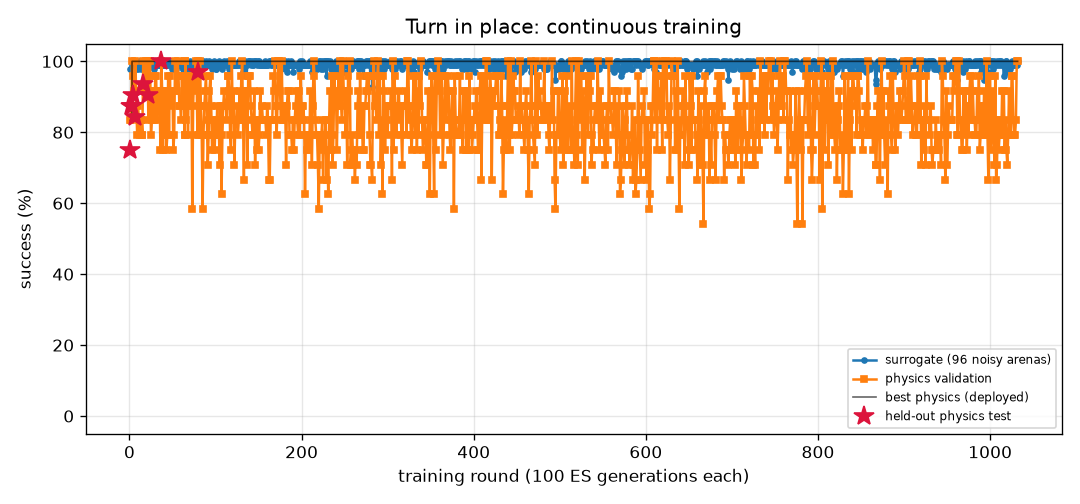
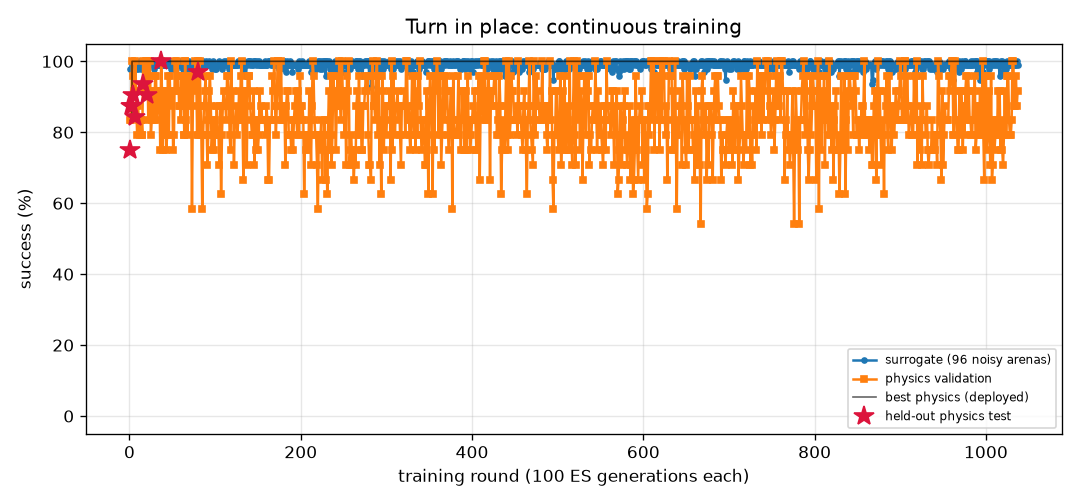
FlyLab: continuous training progress
- walk_forward: optimal, physics val 100% of 24, round 382
- turn: optimal, physics val 100% of 24, round 1037
- goto: optimal, physics val 100% of 24, round 297
- odor_seek: optimal, physics val 100% of 24, round 239
- odor_avoid: optimal, physics val 100% of 24, round 915
- light_seek: optimal, physics val 100% of 24, round 496
- light_avoid: optimal, physics val 100% of 24, round 639

diff --git a/projects/09_flylab/training/turn/REPORT.md b/projects/09_flylab/training/turn/REPORT.md
@@ -1,14 +1,14 @@
 # Turn in place (`turn`) — training report
 
-*Auto-generated by `train_brains.py`, last updated 2026-11-13T20:39:49.*
+*Auto-generated by `train_brains.py`, last updated 2026-11-13T23:34:25.*
 
 ![curve](curve.png)
 
 | | |
 |---|---|
-| rounds | 1032 |
-| ES generations | 103200 |
-| physics runs | 25014 |
+| rounds | 1037 |
+| ES generations | 103700 |
+| physics runs | 25134 |
 | status | **optimal** |
 | best brain | round 80: physics validation **100%** on 24 arenas, surrogate 100% |
 | held-out physics test | **97%** on 32 unseen arenas (95% CI 84%-99%) (errors: [1.6, 3.3, 6.3, 3.7, 1.1, 0.4, 2.4, 2.9, 0.1, 2.6, 0.5, 2.7, 1.5, 3.1, 4.5, 0.2, 0.5, 1.1, 2.0, 4.4, 2.8, 3.2, 0.3, 2.2, 0.5, 3.0, 0.3, 5.4, 0.4, 1.0, 4.7, 10.7]) |
@@ -17,11 +17,6 @@ Physics error per arena: deg from target heading (< 20 = success).
 
 | round | level | gens | sigma | surrogate | physics val | val errors | test | note |
 |---:|---:|---:|---:|---:|---:|---|---:|---|
-| 993 | 3 | 99300 | 0.024 | 95% | 92% | [13.5, 13.6, 11.5, 8.0, 8.7, 3.0, 3.7, 12.4, 4.0, 7.8, 0.4, 8.2, 5.9, 5.6, 1.4, 8.5, 7.0, 5.8, 8.5, 8.6, 11.5, 3.4, 2.5, 9.0] |  |  |
-| 994 | 3 | 99400 | 0.027 | 100% | 88% | [3.7, 7.3, 2.4, 2.2, 2.7, 2.1, 4.7, 6.0, 4.5, 0.4, 3.8, 0.9, 1.2, 4.3, 2.3, 1.0, 1.5, 0.5, 2.5, 2.1, 4.6, 2.1, 4.0, 4.4] |  |  |
-| 995 | 3 | 99500 | 0.024 | 99% | 79% | [0.2, 1.9, 0.7, 2.9, 0.5, 0.8, 5.1, 5.7, 5.4, 1.3, 4.7, 1.1, 1.2, 2.6, 4.3, 0.6, 1.4, 1.8, 0.5, 1.1, 3.8, 1.1, 5.5, 6.2] |  |  |
-| 996 | 3 | 99600 | 0.025 | 100% | 100% | [1.9, 4.9, 3.1, 0.7, 1.5, 2.7, 3.6, 3.1, 4.0, 0.5, 2.7, 0.7, 2.0, 0.9, 1.4, 2.0, 0.8, 0.4, 1.8, 1.1, 2.9, 0.8, 6.3, 1.0] |  | restart from best |
-| 997 | 3 | 99700 | 0.024 | 97% | 79% | [7.9, 9.2, 2.9, 0.3, 2.6, 0.8, 2.2, 2.7, 2.6, 0.2, 2.2, 3.7, 3.8, 3.2, 1.9, 2.9, 3.8, 1.1, 2.6, 3.2, 7.1, 1.8, 1.2, 6.9] |  |  |
 | 998 | 3 | 99800 | 0.026 | 100% | 67% | [7.7, 3.9, 0.1, 0.3, 3.1, 2.7, 6.1, 3.5, 4.6, 0.5, 5.2, 0.4, 1.3, 1.4, 4.5, 0.2, 1.1, 1.5, 0.2, 0.8, 3.5, 2.2, 3.4, 3.3] |  |  |
 | 999 | 3 | 99900 | 0.024 | 100% | 96% | [7.8, 7.1, 3.9, 3.1, 2.1, 1.3, 4.8, 3.4, 2.7, 1.3, 4.9, 1.0, 2.9, 4.2, 4.1, 1.4, 0.8, 1.2, 1.5, 1.4, 7.1, 0.5, 4.3, 0.2] |  |  |
 | 1000 | 3 | 100000 | 0.024 | 99% | 96% | [6.1, 4.4, 2.3, 0.6, 3.2, 0.1, 5.0, 3.6, 4.7, 1.0, 3.8, 0.9, 0.2, 3.7, 4.7, 0.3, 4.0, 1.2, 0.1, 1.2, 3.3, 2.1, 4.9, 6.4] |  | restart from best |
@@ -57,3 +52,8 @@ Physics error per arena: deg from target heading (< 20 = success).
 | 1030 | 3 | 103000 | 0.024 | 99% | 83% | [8.1, 12.2, 7.2, 3.5, 4.1, 1.4, 1.1, 1.2, 1.0, 2.4, 1.1, 4.2, 3.6, 6.2, 0.8, 4.0, 4.1, 3.2, 4.2, 3.8, 5.2, 2.5, 0.8, 4.9] |  |  |
 | 1031 | 3 | 103100 | 0.025 | 99% | 100% | [5.9, 9.1, 7.6, 0.1, 1.0, 1.1, 2.5, 2.2, 3.6, 1.6, 2.7, 1.3, 0.4, 3.7, 2.8, 1.7, 0.8, 1.4, 1.9, 0.4, 8.2, 0.5, 3.7, 1.9] |  |  |
 | 1032 | 3 | 103200 | 0.025 | 100% | 100% | [6.8, 8.7, 6.4, 1.7, 1.4, 0.4, 0.4, 0.1, 1.5, 3.1, 1.4, 2.4, 4.9, 5.0, 1.2, 2.7, 2.1, 3.7, 1.1, 0.7, 7.2, 0.7, 0.1, 3.5] |  | restart from best |
+| 1033 | 3 | 103300 | 0.024 | 99% | 88% | [6.7, 9.5, 0.1, 3.5, 4.1, 0.8, 3.7, 0.5, 4.6, 0.2, 3.5, 2.1, 1.5, 4.9, 2.2, 1.7, 2.4, 0.3, 1.6, 0.1, 7.2, 1.0, 4.5, 0.5] |  |  |
+| 1034 | 3 | 103400 | 0.025 | 99% | 88% | [6.0, 8.2, 2.4, 3.3, 2.2, 3.1, 5.7, 0.8, 4.6, 1.1, 4.1, 0.6, 0.4, 4.0, 4.6, 2.5, 2.4, 0.8, 0.1, 1.1, 6.6, 0.0, 4.9, 5.3] |  |  |
+| 1035 | 3 | 103500 | 0.025 | 99% | 96% | [0.6, 4.8, 1.6, 2.2, 0.3, 0.7, 4.9, 6.4, 5.1, 0.1, 2.9, 0.9, 1.6, 1.1, 3.2, 0.6, 0.9, 0.2, 0.4, 0.2, 3.5, 1.2, 5.3, 2.5] |  |  |
+| 1036 | 3 | 103600 | 0.025 | 100% | 88% | [2.7, 3.1, 4.8, 0.3, 0.6, 4.8, 7.0, 10.2, 7.5, 2.5, 4.0, 4.0, 0.7, 1.1, 3.9, 13.0, 4.2, 5.4, 4.3, 13.4, 3.0, 2.9, 7.4, 5.3] |  | restart from best |
+| 1037 | 3 | 103700 | 0.024 | 99% | 92% | [7.7, 7.0, 1.4, 2.4, 15.4, 2.6, 3.8, 4.7, 3.3, 1.0, 3.5, 1.1, 1.7, 3.2, 3.1, 15.9, 0.8, 0.8, 0.4, 0.0, 4.8, 1.1, 5.3, 3.4] |  |  |

diff --git a/projects/09_flylab/training/walk_forward/REPORT.md b/projects/09_flylab/training/walk_forward/REPORT.md
@@ -1,14 +1,14 @@
 # Walk forward (`walk_forward`) — training report
 
-*Auto-generated by `train_brains.py`, last updated 2026-11-13T22:25:02.*
+*Auto-generated by `train_brains.py`, last updated 2026-11-13T22:59:27.*
 
 ![curve](curve.png)
 
 | | |
 |---|---|
-| rounds | 379 |
-| ES generations | 37900 |
-| physics runs | 9110 |
+| rounds | 382 |
+| ES generations | 38200 |
+| physics runs | 9182 |
 | status | **optimal** |
 | best brain | round 116: physics validation **100%** on 24 arenas, surrogate 100% |
 | held-out physics test | **100%** on 32 unseen arenas (95% CI 89%-100%) (errors: [0.13, 0.16, 0.19, 0.16, 0.15, 0.2, 0.17, 0.18, 0.17, 0.19, 0.2, 0.14, 0.17, 0.19, 0.2, 0.2, 0.13, 0.19, 0.16, 0.2, 0.2, 0.16, 0.17, 0.2, 0.13, 0.15, 0.18, 0.14, 0.16, 0.15, 0.19, 0.12]) |
@@ -17,9 +17,6 @@ Physics error per arena: mm from target at the end (< 1.5 and standing still = s
 
 | round | level | gens | sigma | surrogate | physics val | val errors | test | note |
 |---:|---:|---:|---:|---:|---:|---|---:|---|
-| 340 | 3 | 34000 | 0.024 | 100% | 100% | [0.21, 0.22, 0.17, 0.2, 0.22, 0.17, 0.22, 0.18, 0.22, 0.21, 0.16, 0.21, 0.17, 0.17, 0.21, 0.21, 0.2, 0.22, 0.18, 0.22, 0.19, 0.22, 0.21, 0.17] |  | restart from best |
-| 341 | 3 | 34100 | 0.024 | 100% | 100% | [0.33, 0.36, 0.29, 0.33, 0.36, 0.28, 0.36, 0.29, 0.36, 0.36, 0.27, 0.35, 0.3, 0.27, 0.34, 0.36, 0.32, 0.36, 0.28, 0.34, 0.3, 0.36, 0.35, 0.3] |  |  |
-| 342 | 3 | 34200 | 0.024 | 100% | 100% | [0.3, 0.34, 0.23, 0.29, 0.35, 0.23, 0.35, 0.24, 0.34, 0.33, 0.24, 0.32, 0.24, 0.24, 0.32, 0.33, 0.28, 0.34, 0.25, 0.32, 0.25, 0.33, 0.31, 0.24] |  |  |
 | 343 | 3 | 34300 | 0.024 | 99% | 100% | [0.23, 0.2, 0.25, 0.22, 0.21, 0.24, 0.2, 0.24, 0.2, 0.18, 0.23, 0.17, 0.25, 0.25, 0.22, 0.18, 0.23, 0.21, 0.25, 0.21, 0.24, 0.19, 0.16, 0.25] |  |  |
 | 344 | 3 | 34400 | 0.025 | 99% | 100% | [0.29, 0.29, 0.29, 0.3, 0.29, 0.27, 0.28, 0.31, 0.29, 0.27, 0.24, 0.26, 0.32, 0.29, 0.3, 0.26, 0.29, 0.29, 0.31, 0.3, 0.31, 0.27, 0.26, 0.32] |  | restart from best |
 | 345 | 3 | 34500 | 0.024 | 99% | 88% | [0.13, 0.14, 0.09, 0.12, 0.1, 0.09, 0.12, 0.05, 0.08, 0.14, 0.08, 0.14, 0.07, 0.13, 0.12, 0.14, 0.22, 0.11, 0.06, 0.13, 0.06, 0.11, 0.14, 0.47] |  |  |
@@ -57,3 +54,6 @@ Physics error per arena: mm from target at the end (< 1.5 and standing still = s
 | 377 | 3 | 37700 | 0.024 | 100% | 100% | [0.29, 0.38, 0.32, 0.29, 0.38, 0.33, 0.39, 0.32, 0.38, 0.42, 0.33, 0.44, 0.3, 0.33, 0.32, 0.43, 0.3, 0.35, 0.31, 0.32, 0.3, 0.43, 0.44, 0.31] |  |  |
 | 378 | 3 | 37800 | 0.024 | 100% | 96% | [0.16, 0.2, 0.1, 0.16, 0.2, 0.09, 0.2, 0.11, 0.2, 0.2, 0.36, 0.18, 0.1, 0.09, 0.18, 0.19, 0.15, 0.19, 0.12, 0.18, 0.12, 0.19, 0.18, 0.11] |  |  |
 | 379 | 3 | 37900 | 0.024 | 100% | 96% | [0.07, 0.09, 0.09, 0.08, 0.08, 0.06, 0.1, 0.06, 0.09, 0.12, 0.41, 0.17, 0.04, 0.08, 0.07, 0.14, 0.06, 0.12, 0.09, 0.09, 0.06, 0.12, 0.18, 0.05] |  |  |
+| 380 | 3 | 38000 | 0.024 | 100% | 100% | [0.14, 0.17, 0.15, 0.14, 0.17, 0.1, 0.18, 0.14, 0.17, 0.18, 0.09, 0.19, 0.12, 0.1, 0.15, 0.19, 0.14, 0.17, 0.15, 0.15, 0.14, 0.18, 0.18, 0.13] |  | restart from best |
+| 381 | 3 | 38100 | 0.024 | 100% | 100% | [0.31, 0.29, 0.25, 0.3, 0.29, 0.24, 0.29, 0.27, 0.29, 0.28, 0.23, 0.26, 0.26, 0.24, 0.31, 0.26, 0.29, 0.3, 0.27, 0.3, 0.27, 0.27, 0.25, 0.26] |  |  |
+| 382 | 3 | 38200 | 0.024 | 100% | 100% | [0.19, 0.18, 0.13, 0.2, 0.17, 0.15, 0.2, 0.14, 0.15, 0.22, 0.18, 0.22, 0.18, 0.11, 0.21, 0.24, 0.16, 0.17, 0.17, 0.22, 0.13, 0.19, 0.18, 0.19] |  |  |

diff --git a/projects/09_flylab/training/goto/REPORT.md b/projects/09_flylab/training/goto/REPORT.md
@@ -1,14 +1,14 @@
 # Go to a location (`goto`) — training report
 
-*Auto-generated by `train_brains.py`, last updated 2026-11-13T22:31:29.*
+*Auto-generated by `train_brains.py`, last updated 2026-11-13T23:01:34.*
 
 ![curve](curve.png)
 
 | | |
 |---|---|
-| rounds | 295 |
-| ES generations | 29500 |
-| physics runs | 7030 |
+| rounds | 297 |
+| ES generations | 29700 |
+| physics runs | 7078 |
 | status | **optimal** |
 | best brain | round 176: physics validation **100%** on 24 arenas, surrogate 100% |
 | held-out physics test | **100%** on 32 unseen arenas (95% CI 89%-100%) (errors: [0.2, 0.32, 0.19, 0.24, 0.18, 0.2, 0.19, 0.17, 0.22, 0.23, 0.23, 0.26, 0.2, 0.19, 0.24, 0.23, 0.22, 0.24, 0.2, 0.22, 0.2, 0.2, 0.26, 0.19, 0.22, 0.18, 0.26, 0.22, 0.2, 0.26, 0.23, 0.23]) |
@@ -17,8 +17,6 @@ Physics error per arena: mm from target at the end (< 1.5 and standing still = s
 
 | round | level | gens | sigma | surrogate | physics val | val errors | test | note |
 |---:|---:|---:|---:|---:|---:|---|---:|---|
-| 256 | 3 | 25600 | 0.025 | 100% | 100% | [0.32, 0.39, 0.37, 0.39, 0.37, 0.36, 0.37, 0.36, 0.36, 0.39, 0.35, 0.38, 0.35, 0.37, 0.43, 0.45, 0.37, 0.37, 0.39, 0.42, 0.41, 0.39, 0.35, 0.38] |  | restart from best |
-| 257 | 3 | 25700 | 0.024 | 100% | 100% | [0.67, 0.68, 0.56, 0.61, 0.54, 0.59, 0.64, 0.63, 0.69, 0.58, 0.56, 0.61, 0.69, 0.59, 0.62, 0.64, 0.7, 0.59, 0.55, 0.67, 0.62, 0.58, 0.69, 0.61] |  |  |
 | 258 | 3 | 25800 | 0.024 | 99% | 100% | [0.49, 0.47, 0.37, 0.44, 0.36, 0.4, 0.47, 0.47, 0.5, 0.38, 0.37, 0.44, 0.5, 0.38, 0.42, 0.43, 0.53, 0.42, 0.36, 0.5, 0.41, 0.41, 0.51, 0.44] |  |  |
 | 259 | 3 | 25900 | 0.025 | 99% | 100% | [0.74, 0.66, 0.51, 0.63, 0.52, 0.58, 0.68, 0.68, 0.7, 0.54, 0.55, 0.61, 0.72, 0.52, 0.6, 0.62, 0.75, 0.61, 0.53, 0.69, 0.58, 0.61, 0.74, 0.61] |  |  |
 | 260 | 3 | 26000 | 0.025 | 99% | 100% | [0.54, 0.57, 0.58, 0.46, 0.4, 0.46, 0.5, 0.54, 0.51, 0.4, 0.38, 0.43, 0.55, 0.44, 0.46, 0.46, 0.55, 0.46, 0.38, 0.52, 0.46, 0.39, 0.56, 0.48] |  | restart from best |
@@ -57,3 +55,5 @@ Physics error per arena: mm from target at the end (< 1.5 and standing still = s
 | 293 | 3 | 29300 | 0.024 | 99% | 100% | [0.48, 0.44, 0.3, 0.34, 0.32, 0.33, 0.44, 0.38, 0.4, 0.33, 0.3, 0.34, 0.42, 0.34, 0.37, 0.41, 0.5, 0.4, 0.31, 0.41, 0.37, 0.33, 0.47, 0.34] |  |  |
 | 294 | 3 | 29400 | 0.025 | 99% | 100% | [0.69, 0.65, 0.69, 0.56, 0.51, 0.54, 0.68, 0.62, 0.62, 0.53, 0.51, 0.54, 0.63, 0.53, 0.57, 0.62, 0.65, 0.53, 0.5, 0.61, 0.57, 0.55, 0.68, 0.55] |  |  |
 | 295 | 3 | 29500 | 0.025 | 99% | 100% | [0.61, 0.61, 0.45, 0.45, 0.46, 0.45, 0.57, 0.5, 0.5, 0.44, 0.43, 0.46, 0.55, 0.47, 0.51, 0.54, 0.6, 0.52, 0.43, 0.52, 0.53, 0.44, 0.56, 0.45] |  |  |
+| 296 | 3 | 29600 | 0.025 | 99% | 100% | [0.37, 0.43, 0.41, 0.27, 0.31, 0.3, 0.37, 0.34, 0.29, 0.26, 0.27, 0.27, 0.32, 0.31, 0.4, 0.41, 0.33, 0.28, 0.26, 0.29, 0.38, 0.25, 0.34, 0.26] |  | restart from best |
+| 297 | 3 | 29700 | 0.024 | 99% | 100% | [0.31, 0.35, 0.24, 0.27, 0.23, 0.28, 0.29, 0.31, 0.3, 0.22, 0.25, 0.27, 0.32, 0.27, 0.27, 0.27, 0.31, 0.25, 0.22, 0.27, 0.27, 0.21, 0.33, 0.28] |  |  |

diff --git a/projects/09_flylab/training/TRAINING.md b/projects/09_flylab/training/TRAINING.md
@@ -1,14 +1,14 @@
 # FlyLab brains — continuous training log
 
-*Auto-generated by `train_brains.py`, last updated 2026-11-13T22:31:29.*
+*Auto-generated by `train_brains.py`, last updated 2026-11-13T23:34:25.*
 
 Every skill has its own brain and its own training process: surrogate ES rounds, physics validation in MuJoCo, keep-the-best selection, and a held-out physics test that is never used for selection. See each skill's report for its full round-by-round history. Mastery is progressive: passing a level (100% physics validation, >=95% surrogate) doubles the validation and test arena sets; a brain is **optimal** once it holds up at level 3 (>=95% of 24 validation arenas) AND scores >=90% on the 32 held-out test arenas. Test columns show 95% Wilson confidence intervals.
 
 | skill | rounds | ES generations | physics runs | surrogate | physics val | **physics test** | status |
 |---|---:|---:|---:|---:|---:|---:|---|
-| [Walk forward](walk_forward/REPORT.md) | 379 | 37900 | 9110 | 100% | 100% of 24 | 100% of 32 (CI 89-100%) | **optimal** |
-| [Turn in place](turn/REPORT.md) | 1032 | 103200 | 25014 | 100% | 100% of 24 | 97% of 32 (CI 84-99%) | **optimal** |
-| [Go to a location](goto/REPORT.md) | 295 | 29500 | 7030 | 100% | 100% of 24 | 100% of 32 (CI 89-100%) | **optimal** |
+| [Walk forward](walk_forward/REPORT.md) | 382 | 38200 | 9182 | 100% | 100% of 24 | 100% of 32 (CI 89-100%) | **optimal** |
+| [Turn in place](turn/REPORT.md) | 1037 | 103700 | 25134 | 100% | 100% of 24 | 97% of 32 (CI 84-99%) | **optimal** |
+| [Go to a location](goto/REPORT.md) | 297 | 29700 | 7078 | 100% | 100% of 24 | 100% of 32 (CI 89-100%) | **optimal** |
 | [Find food by smell](odor_seek/REPORT.md) | 239 | 23900 | 5198 | 100% | 100% of 24 | 100% of 32 (CI 89-100%) | **optimal** |
 | [Escape a bad smell](odor_avoid/REPORT.md) | 915 | 91500 | 19266 | 97% | 100% of 24 | 97% of 32 (CI 84-99%) | **optimal** |
 | [Walk toward light](light_seek/REPORT.md) | 496 | 49600 | 8784 | 100% | 100% of 24 | 100% of 32 (CI 89-100%) | **optimal** |
